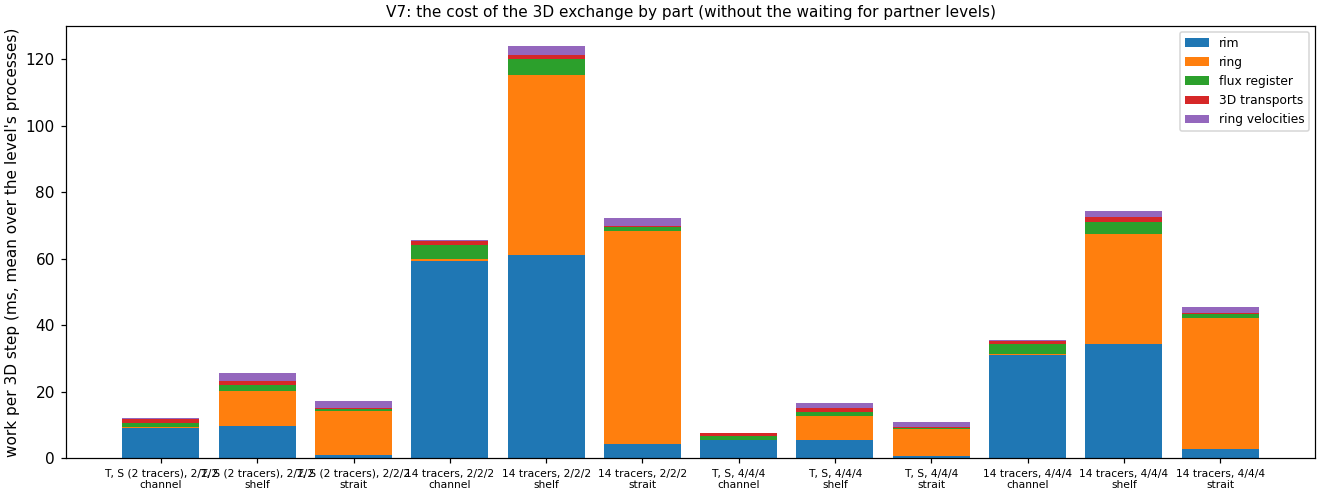
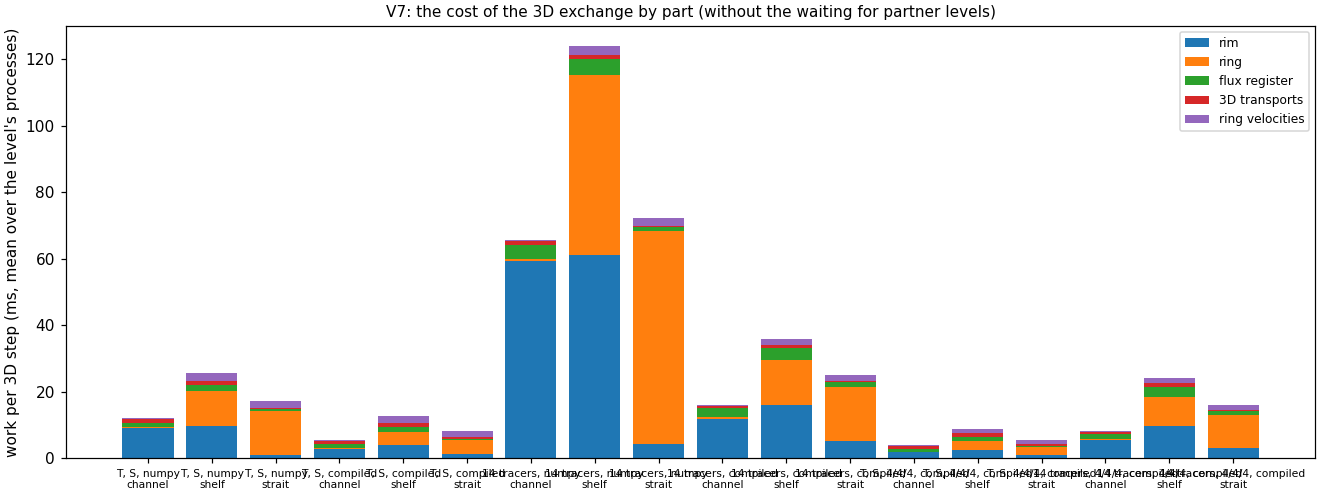
IDEAL V7 with the compiled remap kernel; methods (kernel), status

Changed region(s): [[0.0932, 0.0909, 0.9939, 1.0]]

diff --git a/ideal.html b/ideal.html
@@ -389,10 +389,24 @@ correction needs three more remaps per tracer.</li>
 <li><strong>The rest is small:</strong> the flux register 1–4 ms, the 3D transports 1 ms, the ring velocities 2 ms per 3D step.</li>
 <li><strong>The shelf pays most</strong>: as a child it remaps its ring, as a parent its children's rim.</li>
 <li><strong>It scales with the processes</strong> (35–40 % less work per process on twice as many), as the remaps run where the interface is.</li>
-<li><strong>Numpy is the limit.</strong> The remaps are vectorised numpy (PPM included); a compiled kernel, a merge of the two lists of interfaces
-per column, is expected to be 10–20 times faster. That is the step before NEAB in 3D, where the rim and ring hold about
-1,000 columns per interface with 30 layers.</li></ul>
-<figure class="fig wide"><button class="plate" type="button" data-full="fig/ideal/3d/v7_cost.png" aria-label="Open The work per 3D step by part full size"><img src="fig/ideal/3d/v7_cost.png" alt="The work per 3D step by part" loading="lazy"></button><figcaption><strong>The work per 3D step by part</strong><p>Mean over each level's processes, without the waiting for partner levels.</p></figcaption></figure>
+</ul>
+<h3 id="v7-kernel">A compiled remap kernel</h3>
+<p>The remap is now a Fortran kernel in pyGETM (<code>_pygetm.vertical_remap</code>): one pass down each column, a merge of the two
+lists of interfaces, with the same PCM or PPM reconstruction and limiter as the numpy version. One call handles all columns
+and tracers of an exchange. It equals the numpy remap to 4e-15 and is 15–16 times faster (18,000 columns, 14 tracers: PPM
+120 ms against 1,960 ms). All IDEAL results are unchanged: heat in the closed basin 5e-11, uniform to 3e-13, V2 and V6 to
+every digit.</p>
+<div class="tablewrap num"><table><thead><tr><th>3D exchange work per 3D step, 2 processes per level</th><th>numpy</th><th>compiled</th><th>share of the run, compiled</th></tr></thead><tbody>
+<tr><td>T, S: channel / shelf / strait</td><td>12 / 26 / 17 ms</td><td>5 / 13 / 8 ms</td><td>4 / 9 / 6 %</td></tr>
+<tr><td>14 tracers: channel / shelf / strait</td><td>66 / 124 / 72 ms</td><td>16 / 36 / 25 ms</td><td>8 / 17 / 12 %</td></tr>
+</tbody></table></div>
+<p>The exchange's work falls 2–4 times, not 15: a profile puts the kernel at about 40 % of what remains. The rest is the numpy
+around it: gathering the columns from pyGETM's 3D arrays at the interface cells and reversing their layer order, the r × r
+child columns of the rim, the stretch, the ring's limiter and the messages. A kernel that reads and writes the 3D arrays
+at a list of cells itself could gain another 1.5–2 times on the exchange, 2–8 % of a run: worth it for many tracers (FABM),
+not urgent for T and S. The waiting for partner levels, the largest item for the channel, is load balance: the 3D cost per
+level is not yet in <code>nesting-balance</code>.</p>
+<figure class="fig wide"><button class="plate" type="button" data-full="fig/ideal/3d/v7_cost.png" aria-label="Open The work per 3D step by part full size"><img src="fig/ideal/3d/v7_cost.png" alt="The work per 3D step by part" loading="lazy"></button><figcaption><strong>The work per 3D step by part</strong><p>Mean over each level's processes, without the waiting for partner levels: numpy and the compiled kernel, T and S or 14 tracers, 2 or 4 processes per level.</p></figcaption></figure>
 </section>
 <footer class="foot"><p>Two-way, multi-level nesting for pyGETM, developed by Bolding &amp; Bruggeman. Code: the fork <a href="https://github.com/bolding/pygetm"><code>bolding/pygetm</code></a> (branch <code>nesting-mpmd</code>); the setups and tools (<code>pygetm-nesting</code>) are not public yet.</p><p>Karsten Bolding, Bolding &amp; Bruggeman.</p></footer>
 </main>

diff --git a/methods.html b/methods.html
@@ -276,7 +276,8 @@ limited to the range of the two.</td></tr>
 <p>The concentrations of the rim and the ring are remapped with every interface kept at its depth below the surface (only
 the bottom layer is cut or extended), so that flat isopycnals stay flat over a sloping bottom, and with a limited
 piecewise-parabolic reconstruction (PPM, Colella and Woodward 1984) inside each source layer, which carries a thin
-pycnocline from coarse onto fine layers 5–20 times more accurately than a constant. The amounts of the flux
+pycnocline from coarse onto fine layers 5–20 times more accurately than a constant. The remap runs in a compiled
+kernel in pyGETM (<code>_pygetm.vertical_remap</code>), 15 times faster than the numpy version. The amounts of the flux
 register and the transports are remapped with the stretch, which keeps their sums exactly. With all of it, a closed basin
 conserves its heat content to 1e-9 over 48 h, and a uniform field stays uniform to round-off
 (<a href="ideal.html#threed">IDEAL</a>). How it got there: <a href="issues.html#rim-content">exact rim content</a>,
@@ -305,6 +306,8 @@ parent's water under a child</td></tr>
 <code>before_state_update</code>, <code>after_state_update</code>, <code>on_stage</code> (after <code>transports_2d</code>,
 <code>elevation</code>, <code>momentum_3d</code>, <code>tracers</code>) and <code>on_finish</code>.</td><td>All exchanges between the levels happen here</td></tr>
 <tr><td><code>operators.py</code></td><td><code>Advection(..., flux_u=, flux_v=)</code>; <code>apply_3d_batch(..., get_flux=)</code>, the tracer amount through every face and layer</td><td>Python side of the face fluxes (2D and 3D)</td></tr>
+<tr><td><code>src/vertical_remap.F90</code>, <code>_pygetm.pyx</code>, <code>CMakeLists.txt</code></td><td>The vertical remap kernel
+(<code>_pygetm.vertical_remap</code>: PCM or PPM, one pass per column)</td><td>The 3D exchanges between levels with different vertical grids</td></tr>
 <tr><td><code>tracer.py</code></td><td><code>TracerCollection.face_fluxes</code>: per tracer the arrays the 3D advection adds to</td><td>The 3D flux register</td></tr>
 <tr><td><code>momentum.py</code></td><td>Transport damping (An) is defined at EXTERNAL faces. <b>Bug fix:</b> the damping was multiplied by the time step twice (also upstream).</td>
 <td>Sponge at a child's interface; stability</td></tr>

diff --git a/status.html b/status.html
@@ -199,10 +199,11 @@ channel and about 6× on the shelf over the slope.</li>
 level, mostly from the coarser levels' layers.</li>
 <li>IDEAL V6, a dye front through the levels: conserved to 4e-9; new extrema 1e-5 in the children after limiting the ring
 correction, 2e-4 in the parent from the flux correction.</li>
-<li>IDEAL V7, the cost: the 3D exchange is 10–21 % of a run with T and S, 20–37 % with 14 tracers; 85 % of it the remaps.</li>
+<li>IDEAL V7, the cost: with the compiled remap kernel (15× faster than numpy) the 3D exchange is 4–9 % of a run with T and S,
+8–17 % with 14 tracers.</li>
 <li>The fork follows pyGETM v0.9.29 (merged 3 November 2026).</li></ul></div>
 <div><h4>Open</h4><ul>
-<li>A compiled remap kernel: the remaps are 85 % of the 3D exchange, which adds 31 % to a run with T and S (IDEAL V7).</li>
+<li>The 3D exchange's gathering of columns inside the compiled kernel (another 1.5–2× on the exchange); the 3D cost per level in <code>nesting-balance</code>.</li>
 <li>The safeguard against new extrema from the flux correction on the parent's side (2e-4 in IDEAL V6).</li>
 <li>The adaptive coordinates in nested runs (left for later).</li>
 <li>Limited slopes and time interpolation in the 3D ring; a compiled remap kernel.</li>
